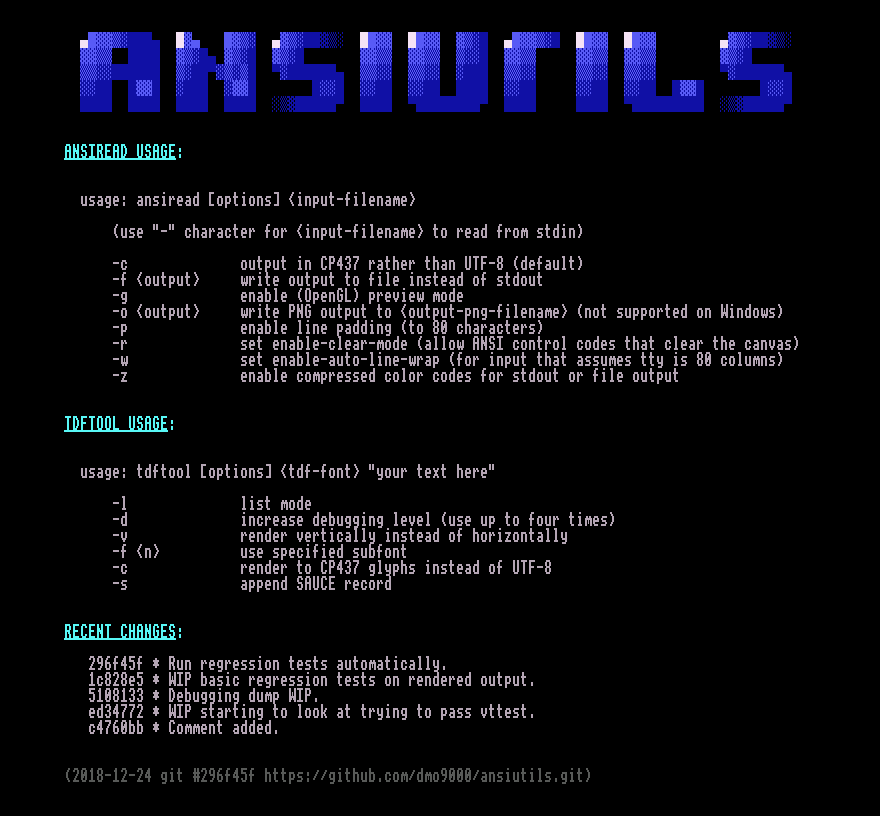
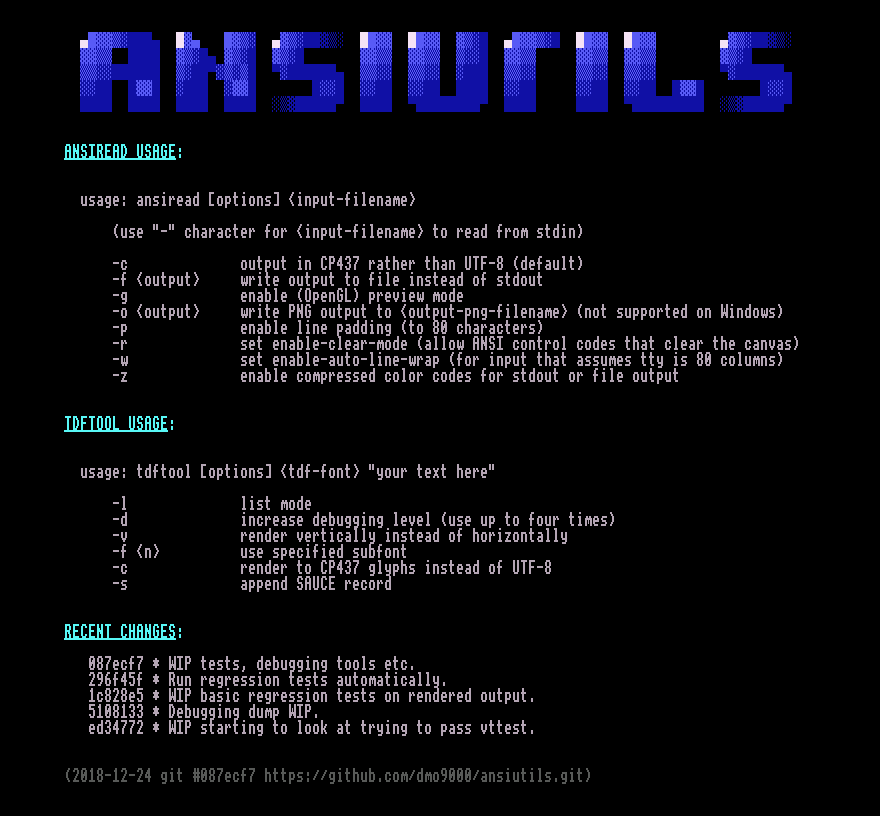
Compatibility improvements.

Changed region(s): [[0.1841, 0.7966, 0.6136, 0.9191], [0.092, 0.7966, 0.1534, 0.9191], [0.2455, 0.9498, 0.2761, 0.9804]]

diff --git a/ansistate.c b/ansistate.c
@@ -85,6 +85,7 @@ uint8_t paramval = 0;
 uint8_t paramcount = 0;
 off_t offset = 0;
 off_t current_escape_address = 0;
+uint8_t last_character = 0;
 
 uint16_t current_x = 0;
 uint16_t current_y = 0;
@@ -138,7 +139,7 @@ void dispatch_ansi_command(ANSICanvas *canvas, unsigned char c);
 int  ansi_setdebug(bool debugstate)
 {
 
-		debug_flag = debugstate;
+    debug_flag = debugstate;
 
 }
 
@@ -168,12 +169,12 @@ void ansi_debug_dump()
         printf("  FLAG_CURSOR\n");
     }
 
-		printf("Parameters:\n\n");
+    printf("Parameters:\n\n");
 
-		for (i = 0; i < paramidx; i++) {
-				printf("parameter[%u] = %u\n", i, parameters[i]);
-				}
-		printf("\n\n");
+    for (i = 0; i < paramidx; i++) {
+        printf("parameter[%u] = %u\n", i, parameters[i]);
+    }
+    printf("\n\n");
 
     printf("Sequence:\n  ");
 
@@ -372,7 +373,8 @@ bool ansi_to_canvas(ANSICanvas *canvas, unsigned char *buf, size_t nbytes, size_
 
                 } else {
                     if (debug_flag) {
-                        printf("output character '%c'\n", c);
+                        printf("output character '%c' [%c]\n", c,  (attributes & ATTRIB_REVERSE ? 'R' : ' '));
+                        last_character = c;
                     }
 
                     if (canvas->scroll_on_output) {
@@ -407,13 +409,13 @@ bool ansi_to_canvas(ANSICanvas *canvas, unsigned char *buf, size_t nbytes, size_
 
         case (FLAG_1B | FLAG_5B):
 
-						if (c == 'r') {
-								/* see http://www2.gar.no/glinkj/help/cmds/ansa.htm */
-								/* SCR - scrolling region */
-								fprintf(stderr, "SCR	Scrolling region	esc [ r	1B 5B 72\n");
+            if (c == 'r') {
+                /* see http://www2.gar.no/glinkj/help/cmds/ansa.htm */
+                /* SCR - scrolling region */
+                fprintf(stderr, "SCR	Scrolling region	esc [ r	1B 5B 72\n");
                 clear_ansi_flags(FLAG_ALL);
-								break;
-								}
+                break;
+            }
 
             if (c == 'm') {
                 assert(!paramcount);
@@ -595,28 +597,28 @@ bool ansi_to_canvas(ANSICanvas *canvas, unsigned char *buf, size_t nbytes, size_
                 break;
             }
 
-						if (c == 'd') {
-							/* SSR - SPACE SUPPRESS RESET  */
-							fprintf(stderr, "[SSR]\n");
-							current_y = 0;
-							canvas->is_dirty = true;
-							clear_ansi_flags(FLAG_ALL);
-							break;
-							}
+            if (c == 'd') {
+                /* SSR - SPACE SUPPRESS RESET  */
+                fprintf(stderr, "[SSR]\n");
+                current_y = 0;
+                canvas->is_dirty = true;
+                clear_ansi_flags(FLAG_ALL);
+                break;
+            }
 
             if (isdigit(c)) {
-								ansi_seqbuf[ansi_offset] = c;
-								ansi_offset++;
+                ansi_seqbuf[ansi_offset] = c;
+                ansi_offset++;
                 paramval = c - 0x30;
                 if (debug_flag) {
                     printf("start integer parameter [%u], current_value = %u\n", paramidx, paramval);
                 }
                 set_ansi_flags(FLAG_INT);
             } else {
-								ansi_seqbuf[ansi_offset] = c;
-								ansi_offset++;
+                ansi_seqbuf[ansi_offset] = c;
+                ansi_offset++;
                 printf("error: expecting digit, got '%c' (0x%02x), %u parameter, paramval = %u\n", c, c, paramidx, paramval);
-								ansi_debug_dump();
+                ansi_debug_dump();
                 assert(NULL);
             }
             break;
@@ -629,7 +631,7 @@ bool ansi_to_canvas(ANSICanvas *canvas, unsigned char *buf, size_t nbytes, size_
                 }
                 paramidx++;
                 if (debug_flag) {
-                    printf("got alphabetical '%c', dispatching\n", c);
+                    printf("got alphabetical '%c', dispatching with parameter count %d\n", c, paramidx);
                 }
                 dispatch_ansi_command(canvas, c);
                 clear_ansi_flags(FLAG_1B | FLAG_5B | FLAG_INT);
@@ -647,8 +649,8 @@ bool ansi_to_canvas(ANSICanvas *canvas, unsigned char *buf, size_t nbytes, size_
                 clear_ansi_flags(FLAG_INT);
             } else {
                 if (isdigit(c)) {
-										ansi_seqbuf[ansi_offset] = c;
-										ansi_offset++;
+                    ansi_seqbuf[ansi_offset] = c;
+                    ansi_offset++;
                     paramval = (paramval * 10) + (c - 0x30);
                     if (debug_flag) {
                         printf(" cont integer parameter [%u], current_value = %u\n", paramidx, paramval);
@@ -777,7 +779,7 @@ bool ansi_to_canvas(ANSICanvas *canvas, unsigned char *buf, size_t nbytes, size_
 fallback_exit:
     assert (last_c || !last_c);
     //if (debug_flag) {
-        //printf("BLOCK DONE\n");
+    //printf("BLOCK DONE\n");
     //}
     return true;
 }
@@ -1004,9 +1006,15 @@ void canvas_clear(ANSICanvas *canvas)
 
 void dispatch_ansi_command(ANSICanvas *canvas, unsigned char c)
 {
+
+    int i = 0;
+    uint8_t *repeat_char = NULL;
     if (debug_flag) {
         printf("dispatch_ansi_command('%c')\n", c);
     }
+
+    ansi_seqbuf[ansi_offset] = 'b';
+    ansi_offset++;
 
     switch (c) {
     case 'A':
@@ -1014,8 +1022,19 @@ void dispatch_ansi_command(ANSICanvas *canvas, unsigned char c)
         current_y-=(parameters[0] ? parameters[0] : 1);
         break;
     case 'b':
-        /* testing */
-        printf("[1B 5B 62:SRL - SCROLL LEFT? NOT IMPLEMENTED]\n");
+        /* testing - probably wrong since it's supposed to be able to repeat the last control sequence as well */
+        fprintf(stderr, "[REP  Repeat Char or Control    Esc [ Pn b                   1]\n");
+        fprintf(stderr, "last_character=%u (0x%2x), repeat=%d\n",  last_character, last_character, parameters[0]);
+        //ansi_debug_dump();
+        assert(parameters[0]);
+        repeat_char = malloc(parameters[0]);
+        for (i = 0 ; i < parameters[0]; i++) {
+            repeat_char[i] = last_character;
+            //send_byte_to_canvas(canvas, last_character);
+        }
+        clear_ansi_flags(FLAG_ALL);
+        ansi_to_canvas(canvas, repeat_char, parameters[0], 0);
+        free(repeat_char);
         break;
     case 'B':
         /* move cursor down parameter[0] rows without changing column */
@@ -1023,7 +1042,7 @@ void dispatch_ansi_command(ANSICanvas *canvas, unsigned char c)
         break;
     case 'G':
         /* unix mode reset? not implemented! */
-        printf("[1B 5B 62:UMR - UNIX MODE RESET? NOT IMPLEMENTED!]\n");
+        fprintf(stderr, "[1B 5B 62:UMR - UNIX MODE RESET? NOT IMPLEMENTED!]\n");
         break;
     case 'J':
         /* move home and clear screen - set the clear flag on the canvas if we encounter this */
@@ -1042,23 +1061,19 @@ void dispatch_ansi_command(ANSICanvas *canvas, unsigned char c)
         dispatch_ansi_cursor_right(canvas);
         break;
     case 'd':
-				/* this seems to be SSR, but with a parameter - let's complain if the parameter is not "1" for now,
-						since that's all we've seen */
-				ansi_seqbuf[ansi_offset] = 'd';
-				ansi_offset++;
+        /* this seems to be SSR, but with a parameter - let's complain if the parameter is not "1" for now,
+        		since that's all we've seen */
+        ansi_seqbuf[ansi_offset] = 'd';
+        ansi_offset++;
         /* testing - space supress reset? */
-        printf("[1B 5B <nn> 64:SSR - PARAMETERIZED SPACE SUPPRESS RESET]\n");
-				/* leave x position where it is, but move y to line 0 */
+        printf("[1B 5B <nn> 64:VPA - VERTICAL POSITION ABSOLUTE:Y=%u]\n", parameters[0]);
+        /* leave x position where it is, but move y to line 0 */
 
-				ansi_debug_dump();
+        assert((parameters[0] - 1) >= 0);
+        current_y = parameters[0] - 1;
 
-				assert(!paramidx);
-				assert(parameters[0] == 1);
-
-				current_y = 0;
-
-				clear_ansi_flags(FLAG_ALL);
-				canvas->is_dirty= true;
+        clear_ansi_flags(FLAG_ALL);
+        canvas->is_dirty= true;
         break;
     case 'D':
         /* move cursor to the left N characters */
@@ -1102,10 +1117,10 @@ void dispatch_ansi_command(ANSICanvas *canvas, unsigned char c)
         assert(process_fd == -1);
         break;
     default:
-				ansi_seqbuf[ansi_offset] = c;
-				ansi_offset++;
+        ansi_seqbuf[ansi_offset] = c;
+        ansi_offset++;
         printf("+++ unknown ansi command '%c'\n", c);
-				ansi_debug_dump();
+        ansi_debug_dump();
         assert(NULL);
         exit(1);
         break;
